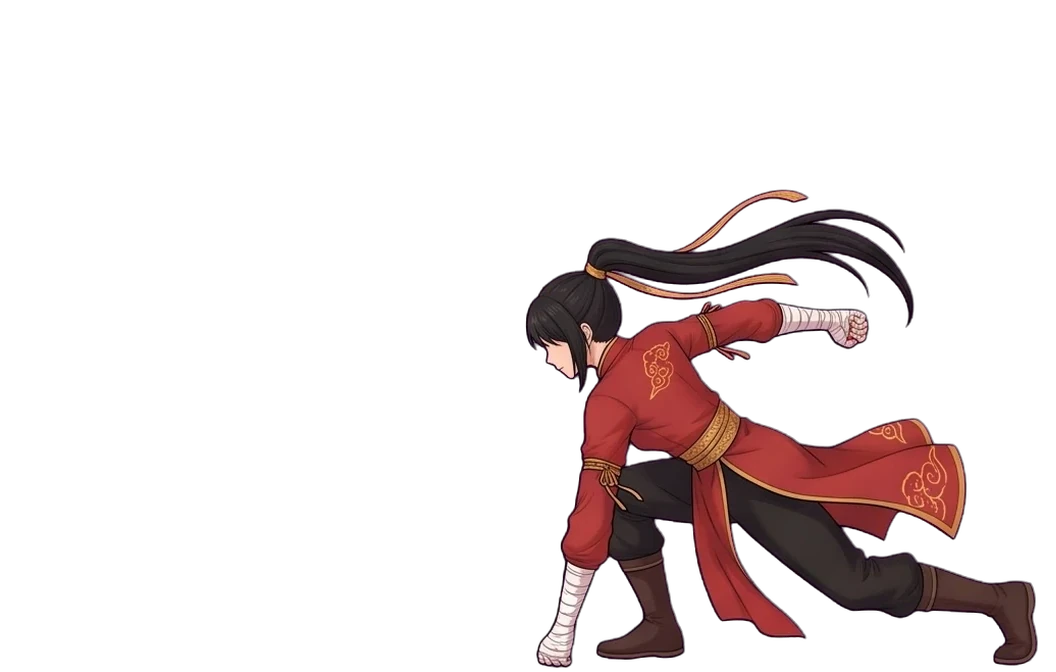
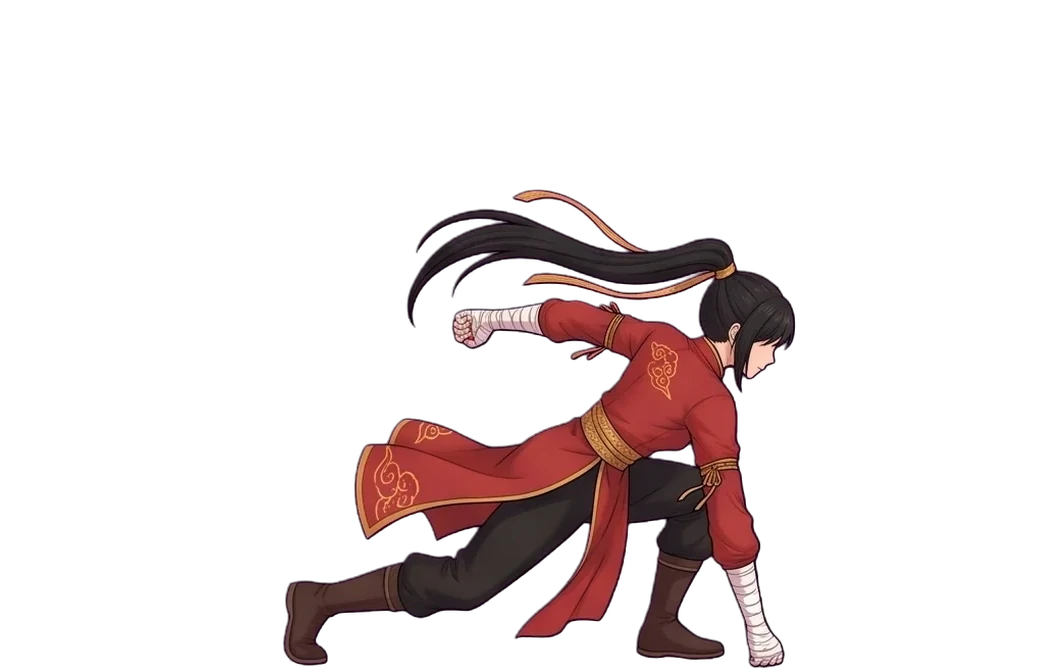
最終版163:重要戰鬥體修蓄力圖朝向修正、歷練戰鬥主角圖依流派與外觀
Claude-Session: https://claude.ai/code/session_01Eudv1bj25nFF4NszqJcvVs

Changed region(s): [[0.25, 0.2812, 1.0, 1.0]]

diff --git a/index.html b/index.html
@@ -16498,7 +16498,7 @@ window.SFX = (() => {
 })();
 
 /* v115 主角背面戰鬥動作圖(重要戰鬥用) */
-window.BP114 = {"F_o1_1": "assets/BP/F_o1_1.webp?v=845711f1", "F_o1_2": "assets/BP/F_o1_2.webp?v=63e0ea8a", "F_o1_3": "assets/BP/F_o1_3.webp?v=4c8fedf0", "F_o1_4": "assets/BP/F_o1_4.webp?v=2d3a9938", "F_o1_5": "assets/BP/F_o1_5.webp?v=39089390", "F_o1_6": "assets/BP/F_o1_6.webp?v=665fdf49", "F_o1_7": "assets/BP/F_o1_7.webp?v=a421ed48", "F_o1_8": "assets/BP/F_o1_8.webp?v=46d02e9f", "F_o1_9": "assets/BP/F_o1_9.webp?v=71e7e51b", "F_o2_1": "assets/BP/F_o2_1.webp?v=05a69ca3", "F_o2_2": "assets/BP/F_o2_2.webp?v=b4ad1367", "F_o2_3": "assets/BP/F_o2_3.webp?v=5b5c3b9e", "F_o2_4": "assets/BP/F_o2_4.webp?v=675eb247", "F_o2_5": "assets/BP/F_o2_5.webp?v=3e6b4256", "F_o2_6": "assets/BP/F_o2_6.webp?v=a83ed8f2", "F_o2_7": "assets/BP/F_o2_7.webp?v=5385903d", "F_o2_8": "assets/BP/F_o2_8.webp?v=813db133", "F_o2_9": "assets/BP/F_o2_9.webp?v=fe97a297", "F_o3_1": "assets/BP/F_o3_1.webp?v=bb0a3107", "F_o3_2": "assets/BP/F_o3_2.webp?v=427aa689", "F_o3_3": "assets/BP/F_o3_3.webp?v=85f7357a", "F_o3_4": "assets/BP/F_o3_4.webp?v=72153950", "F_o3_5": "assets/BP/F_o3_5.webp?v=667aea18", "F_o3_6": "assets/BP/F_o3_6.webp?v=0a9314ea", "F_o3_7": "assets/BP/F_o3_7.webp?v=e8cbb446", "F_o3_8": "assets/BP/F_o3_8.webp?v=b0c55eaa", "F_o3_9": "assets/BP/F_o3_9.webp?v=72363e9e", "F_o4_1": "assets/BP/F_o4_1.webp?v=0a7498b0", "F_o4_2": "assets/BP/F_o4_2.webp?v=0d6c24b1", "F_o4_3": "assets/BP/F_o4_3.webp?v=64f0bf7d", "F_o4_4": "assets/BP/F_o4_4.webp?v=ee9cef42", "F_o4_5": "assets/BP/F_o4_5.webp?v=1df47660", "F_o4_6": "assets/BP/F_o4_6.webp?v=7e19d22c", "F_o4_7": "assets/BP/F_o4_7.webp?v=23243e00", "F_o4_8": "assets/BP/F_o4_8.webp?v=41ff7a57", "F_o4_9": "assets/BP/F_o4_9.webp?v=fdd62696", "F_o5_1": "assets/BP/F_o5_1.webp?v=1acbb409", "F_o5_2": "assets/BP/F_o5_2.webp?v=057ef934", "F_o5_3": "assets/BP/F_o5_3.webp?v=8cf69a7a", "F_o5_4": "assets/BP/F_o5_4.webp?v=83b6597d", "F_o5_5": "assets/BP/F_o5_5.webp?v=2527e5a5", "F_o5_6": "assets/BP/F_o5_6.webp?v=67d0d5f1", "F_o5_7": "assets/BP/F_o5_7.webp?v=4fe41938", "F_o5_8": "assets/BP/F_o5_8.webp?v=a7d74ed8", "F_o5_9": "assets/BP/F_o5_9.webp?v=3954470c", "M_o1_1": "assets/BP/M_o1_1.webp?v=2560faa7", "M_o1_2": "assets/BP/M_o1_2.webp?v=7ad66686", "M_o1_3": "assets/BP/M_o1_3.webp?v=49844ea7", "M_o1_4": "assets/BP/M_o1_4.webp?v=e28f9fdc", "M_o1_5": "assets/BP/M_o1_5.webp?v=b9ccd80b", "M_o1_6": "assets/BP/M_o1_6.webp?v=e9083ee8", "M_o1_7": "assets/BP/M_o1_7.webp?v=58ceecdd", "M_o1_8": "assets/BP/M_o1_8.webp?v=cfe7d049", "M_o1_9": "assets/BP/M_o1_9.webp?v=c5d17e5e", "M_o2_1": "assets/BP/M_o2_1.webp?v=a457cddd", "M_o2_2": "assets/BP/M_o2_2.webp?v=5350cd1f", "M_o2_3": "assets/BP/M_o2_3.webp?v=9923ac77", "M_o2_4": "assets/BP/M_o2_4.webp?v=54d8b4cd", "M_o2_5": "assets/BP/M_o2_5.webp?v=7b33d424", "M_o2_6": "assets/BP/M_o2_6.webp?v=99974fd4", "M_o2_7": "assets/BP/M_o2_7.webp?v=9e35d3f7", "M_o2_8": "assets/BP/M_o2_8.webp?v=010e2f77", "M_o2_9": "assets/BP/M_o2_9.webp?v=9e51febd", "M_o1_magic_1": "assets/BP/M_o1_magic_1.webp?v=9b4973c3", "M_o1_magic_2": "assets/BP/M_o1_magic_2.webp?v=b248a865", "M_o1_magic_3": "assets/BP/M_o1_magic_3.webp?v=a3cf11af", "M_o1_magic_4": "assets/BP/M_o1_magic_4.webp?v=96a407e8", "M_o1_magic_5": "assets/BP/M_o1_magic_5.webp?v=75029708", "M_o1_magic_6": "assets/BP/M_o1_magic_6.webp?v=83065bfb", "M_o1_magic_7": "assets/BP/M_o1_magic_7.webp?v=4a26d8c2", "M_o1_magic_8": "assets/BP/M_o1_magic_8.webp?v=c3b4efe4", "M_o1_magic_9": "assets/BP/M_o1_magic_9.webp?v=d9af5614", "M_o1_body_1": "assets/BP/M_o1_body_1.webp?v=51611a84", "M_o1_body_2": "assets/BP/M_o1_body_2.webp?v=fa383dad", "M_o1_body_3": "assets/BP/M_o1_body_3.webp?v=4a5a0d3d", "M_o1_body_4": "assets/BP/M_o1_body_4.webp?v=1bb56e60", "M_o1_body_5": "assets/BP/M_o1_body_5.webp?v=63e6f99e", "M_o1_body_6": "assets/BP/M_o1_body_6.webp?v=7a0c3fd8", "M_o1_body_7": "assets/BP/M_o1_body_7.webp?v=dbf44c05", "M_o1_body_8": "assets/BP/M_o1_body_8.webp?v=59010254", "M_o1_body_9": "assets/BP/M_o1_body_9.webp?v=07cc84ca", "M_o1_pill_1": "assets/BP/M_o1_pill_1.webp?v=bafb47e1", "M_o1_pill_2": "assets/BP/M_o1_pill_2.webp?v=2c96254e", "M_o1_pill_3": "assets/BP/M_o1_pill_3.webp?v=09680974", "M_o1_pill_4": "assets/BP/M_o1_pill_4.webp?v=f3386cc3", "M_o1_pill_5": "assets/BP/M_o1_pill_5.webp?v=e1a1df88", "M_o1_pill_6": "assets/BP/M_o1_pill_6.webp?v=20603365", "M_o1_pill_7": "assets/BP/M_o1_pill_7.webp?v=f39dd028", "M_o1_pill_8": "assets/BP/M_o1_pill_8.webp?v=2e37c6f2", "M_o1_pill_9": "assets/BP/M_o1_pill_9.webp?v=6862b8e0", "talisman": "assets/BP/talisman.webp?v=b202c5a1", "F_o5_magic_1": "assets/BP/F_o5_magic_1.webp?v=1dc18d3d", "F_o5_magic_2": "assets/BP/F_o5_magic_2.webp?v=0227f54a", "F_o5_magic_3": "assets/BP/F_o5_magic_3.webp?v=2c8b412f", "F_o5_magic_4": "assets/BP/F_o5_magic_4.webp?v=62997c4b", "F_o5_magic_5": "assets/BP/F_o5_magic_5.webp?v=bc868e94", "F_o5_magic_6": "assets/BP/F_o5_magic_6.webp?v=fef3e6b2", "F_o5_magic_7": "assets/BP/F_o5_magic_7.webp?v=e2bdc4b0", "F_o5_magic_8": "assets/BP/F_o5_magic_8.webp?v=372f52eb", "F_o5_magic_9": "assets/BP/F_o5_magic_9.webp?v=b9c981d8", "F_o5_body_1": "assets/BP/F_o5_body_1.webp?v=34d824aa", "F_o5_body_2": "assets/BP/F_o5_body_2.webp?v=9691b664", "F_o5_body_3": "assets/BP/F_o5_body_3.webp?v=568c2b8b", "F_o5_body_4": "assets/BP/F_o5_body_4.webp?v=9695513c", "F_o5_body_5": "assets/BP/F_o5_body_5.webp?v=62f93511", "F_o5_body_6": "assets/BP/F_o5_body_6.webp?v=397c3b2b", "F_o5_body_7": "assets/BP/F_o5_body_7.webp?v=1dbc36b4", "F_o5_body_8": "assets/BP/F_o5_body_8.webp?v=b337b13d", "F_o5_body_9": "assets/BP/F_o5_body_9.webp?v=55a92efd", "F_o5_pill_1": "assets/BP/F_o5_pill_1.webp?v=fb297215", "F_o5_pill_2": "assets/BP/F_o5_pill_2.webp?v=449c1b94", "F_o5_pill_3": "assets/BP/F_o5_pill_3.webp?v=d5d07a07", "F_o5_pill_4": "assets/BP/F_o5_pill_4.webp?v=5a8d8414", "F_o5_pill_5": "assets/BP/F_o5_pill_5.webp?v=8de95340", "F_o5_pill_6": "assets/BP/F_o5_pill_6.webp?v=7fecbbb0", "F_o5_pill_7": "assets/BP/F_o5_pill_7.webp?v=2b15333d", "F_o5_pill_8": "assets/BP/F_o5_pill_8.webp?v=58f02545", "F_o5_pill_9": "assets/BP/F_o5_pill_9.webp?v=78cd2419", "M_o5_magic_1": "assets/BP/M_o5_magic_1.webp?v=1d8d1986", "M_o5_magic_2": "assets/BP/M_o5_magic_2.webp?v=103ebd78", "M_o5_magic_3": "assets/BP/M_o5_magic_3.webp?v=ed6b560e", "M_o5_magic_4": "assets/BP/M_o5_magic_4.webp?v=265d4551", "M_o5_magic_5": "assets/BP/M_o5_magic_5.webp?v=0bc03524", "M_o5_magic_6": "assets/BP/M_o5_magic_6.webp?v=db0285d5", "M_o5_magic_7": "assets/BP/M_o5_magic_7.webp?v=3c325acb", "M_o5_magic_8": "assets/BP/M_o5_magic_8.webp?v=93e857eb", "M_o5_magic_9": "assets/BP/M_o5_magic_9.webp?v=a6302022", "M_o5_body_1": "assets/BP/M_o5_body_1.webp?v=eda74182", "M_o5_body_2": "assets/BP/M_o5_body_2.webp?v=599ba232", "M_o5_body_3": "assets/BP/M_o5_body_3.webp?v=d3a7d388", "M_o5_body_4": "assets/BP/M_o5_body_4.webp?v=b35e56b6", "M_o5_body_5": "assets/BP/M_o5_body_5.webp?v=74f1e209", "M_o5_body_6": "assets/BP/M_o5_body_6.webp?v=c092e695", "M_o5_body_7": "assets/BP/M_o5_body_7.webp?v=d2392edc", "M_o5_body_8": "assets/BP/M_o5_body_8.webp?v=dad73bf5", "M_o5_body_9": "assets/BP/M_o5_body_9.webp?v=bae8528e", "M_o5_pill_1": "assets/BP/M_o5_pill_1.webp?v=839c229a", "M_o5_pill_2": "assets/BP/M_o5_pill_2.webp?v=f4ac8b57", "M_o5_pill_3": "assets/BP/M_o5_pill_3.webp?v=c8b9af3f", "M_o5_pill_4": "assets/BP/M_o5_pill_4.webp?v=b0996191", "M_o5_pill_5": "assets/BP/M_o5_pill_5.webp?v=f1d7a162", "M_o5_pill_6": "assets/BP/M_o5_pill_6.webp?v=028c9bcb", "M_o5_pill_7": "assets/BP/M_o5_pill_7.webp?v=fa2d8913", "M_o5_pill_8": "assets/BP/M_o5_pill_8.webp?v=823c61de", "M_o5_pill_9": "assets/BP/M_o5_pill_9.webp?v=8d1ff84f", "F_o4_magic_1": "assets/BP/F_o4_magic_1.webp?v=47d830b6", "F_o4_magic_2": "assets/BP/F_o4_magic_2.webp?v=3016699d", "F_o4_magic_3": "assets/BP/F_o4_magic_3.webp?v=05e58fcc", "F_o4_magic_4": "assets/BP/F_o4_magic_4.webp?v=4bd59783", "F_o4_magic_5": "assets/BP/F_o4_magic_5.webp?v=caf6e33e", "F_o4_magic_6": "assets/BP/F_o4_magic_6.webp?v=762c5814", "F_o4_magic_7": "assets/BP/F_o4_magic_7.webp?v=983bff3d", "F_o4_magic_8": "assets/BP/F_o4_magic_8.webp?v=1f8d1a40", "F_o4_magic_9": "assets/BP/F_o4_magic_9.webp?v=0e5157a6", "F_o4_body_1": "assets/BP/F_o4_body_1.webp?v=cfabb567", "F_o4_body_2": "assets/BP/F_o4_body_2.webp?v=75e9a3a5", "F_o4_body_3": "assets/BP/F_o4_body_3.webp?v=ebc63f7f", "F_o4_body_4": "assets/BP/F_o4_body_4.webp?v=6bf2e86c", "F_o4_body_5": "assets/BP/F_o4_body_5.webp?v=892cd4a1", "F_o4_body_6": "assets/BP/F_o4_body_6.webp?v=148b1763", "F_o4_body_7": "assets/BP/F_o4_body_7.webp?v=564232a7", "F_o4_body_8": "assets/BP/F_o4_body_8.webp?v=e00847e4", "F_o4_body_9": "assets/BP/F_o4_body_9.webp?v=0ad89cde", "F_o4_pill_1": "assets/BP/F_o4_pill_1.webp?v=a70df610", "F_o4_pill_2": "assets/BP/F_o4_pill_2.webp?v=450d43fa", "F_o4_pill_3": "assets/BP/F_o4_pill_3.webp?v=74c8a812", "F_o4_pill_4": "assets/BP/F_o4_pill_4.webp?v=eee33934", "F_o4_pill_5": "assets/BP/F_o4_pill_5.webp?v=1250a7d0", "F_o4_pill_6": "assets/BP/F_o4_pill_6.webp?v=45cf4da3", "F_o4_pill_7": "assets/BP/F_o4_pill_7.webp?v=7af58a50", "F_o4_pill_8": "assets/BP/F_o4_pill_8.webp?v=8058c548", "F_o4_pill_9": "assets/BP/F_o4_pill_9.webp?v=731b3e1d", "M_o4_magic_1": "assets/BP/M_o4_magic_1.webp?v=202daea7", "M_o4_magic_2": "assets/BP/M_o4_magic_2.webp?v=2e1d8c44", "M_o4_magic_3": "assets/BP/M_o4_magic_3.webp?v=35fa8d0d", "M_o4_magic_4": "assets/BP/M_o4_magic_4.webp?v=c940bcde", "M_o4_magic_5": "assets/BP/M_o4_magic_5.webp?v=1f4b8d28", "M_o4_magic_6": "assets/BP/M_o4_magic_6.webp?v=5e225e0c", "M_o4_magic_7": "assets/BP/M_o4_magic_7.webp?v=82413e4f", "M_o4_magic_8": "assets/BP/M_o4_magic_8.webp?v=b1d046a5", "M_o4_magic_9": "assets/BP/M_o4_magic_9.webp?v=42373643", "M_o4_body_1": "assets/BP/M_o4_body_1.webp?v=d6d360f1", "M_o4_body_2": "assets/BP/M_o4_body_2.webp?v=8955bb7d", "M_o4_body_3": "assets/BP/M_o4_body_3.webp?v=3501d1b6", "M_o4_body_4": "assets/BP/M_o4_body_4.webp?v=969097ca", "M_o4_body_5": "assets/BP/M_o4_body_5.webp?v=5ddec654", "M_o4_body_6": "assets/BP/M_o4_body_6.webp?v=2351a5fc", "M_o4_body_7": "assets/BP/M_o4_body_7.webp?v=b43e5ee4", "M_o4_body_8": "assets/BP/M_o4_body_8.webp?v=bd9f539d", "M_o4_body_9": "assets/BP/M_o4_body_9.webp?v=04fe41b6", "M_o4_pill_1": "assets/BP/M_o4_pill_1.webp?v=55020b94", "M_o4_pill_2": "assets/BP/M_o4_pill_2.webp?v=fd2e627d", "M_o4_pill_3": "assets/BP/M_o4_pill_3.webp?v=53ceea25", "M_o4_pill_4": "assets/BP/M_o4_pill_4.webp?v=2c23521c", "M_o4_pill_5": "assets/BP/M_o4_pill_5.webp?v=0b527c66", "M_o4_pill_6": "assets/BP/M_o4_pill_6.webp?v=79012830", "M_o4_pill_7": "assets/BP/M_o4_pill_7.webp?v=54df3982", "M_o4_pill_8": "assets/BP/M_o4_pill_8.webp?v=d57c73cc", "M_o4_pill_9": "assets/BP/M_o4_pill_9.webp?v=2e1cafff", "F_o3_magic_1": "assets/BP/F_o3_magic_1.webp?v=e9a64f5f", "F_o3_magic_2": "assets/BP/F_o3_magic_2.webp?v=16d10b08", "F_o3_magic_3": "assets/BP/F_o3_magic_3.webp?v=2e587dda", "F_o3_magic_4": "assets/BP/F_o3_magic_4.webp?v=be6838b1", "F_o3_magic_5": "assets/BP/F_o3_magic_5.webp?v=dacc66fb", "F_o3_magic_6": "assets/BP/F_o3_magic_6.webp?v=bfb2b76a", "F_o3_magic_7": "assets/BP/F_o3_magic_7.webp?v=6a5fbd05", "F_o3_magic_8": "assets/BP/F_o3_magic_8.webp?v=f981829c", "F_o3_magic_9": "assets/BP/F_o3_magic_9.webp?v=652b2f75", "F_o3_body_1": "assets/BP/F_o3_body_1.webp?v=8256d26c", "F_o3_body_2": "assets/BP/F_o3_body_2.webp?v=1fd51ead", "F_o3_body_3": "assets/BP/F_o3_body_3.webp?v=dedab817", "F_o3_body_4": "assets/BP/F_o3_body_4.webp?v=7598532f", "F_o3_body_5": "assets/BP/F_o3_body_5.webp?v=5223beba", "F_o3_body_6": "assets/BP/F_o3_body_6.webp?v=d7f3f7e4", "F_o3_body_7": "assets/BP/F_o3_body_7.webp?v=a31a9dcb", "F_o3_body_8": "assets/BP/F_o3_body_8.webp?v=1623c263", "F_o3_body_9": "assets/BP/F_o3_body_9.webp?v=fdbc406f", "F_o3_pill_1": "assets/BP/F_o3_pill_1.webp?v=a7f37f2c", "F_o3_pill_2": "assets/BP/F_o3_pill_2.webp?v=1a1cb015", "F_o3_pill_3": "assets/BP/F_o3_pill_3.webp?v=4b5ce402", "F_o3_pill_4": "assets/BP/F_o3_pill_4.webp?v=e51230f3", "F_o3_pill_5": "assets/BP/F_o3_pill_5.webp?v=f20d8175", "F_o3_pill_6": "assets/BP/F_o3_pill_6.webp?v=fa225a36", "F_o3_pill_7": "assets/BP/F_o3_pill_7.webp?v=c19d3ffa", "F_o3_pill_8": "assets/BP/F_o3_pill_8.webp?v=ab9102e4", "F_o3_pill_9": "assets/BP/F_o3_pill_9.webp?v=e87d8a17", "M_o3_magic_1": "assets/BP/M_o3_magic_1.webp?v=d2cc944c", "M_o3_magic_2": "assets/BP/M_o3_magic_2.webp?v=582713b3", "M_o3_magic_3": "assets/BP/M_o3_magic_3.webp?v=377c6326", "M_o3_magic_4": "assets/BP/M_o3_magic_4.webp?v=d7cb5ba6", "M_o3_magic_5": "assets/BP/M_o3_magic_5.webp?v=af7439d3", "M_o3_magic_6": "assets/BP/M_o3_magic_6.webp?v=4994442c", "M_o3_magic_7": "assets/BP/M_o3_magic_7.webp?v=c9901c96", "M_o3_magic_8": "assets/BP/M_o3_magic_8.webp?v=aae2c32a", "M_o3_magic_9": "assets/BP/M_o3_magic_9.webp?v=3520c790", "M_o3_body_1": "assets/BP/M_o3_body_1.webp?v=00c0ab0a", "M_o3_body_2": "assets/BP/M_o3_body_2.webp?v=d4fb2313", "M_o3_body_3": "assets/BP/M_o3_body_3.webp?v=0089c2ec", "M_o3_body_4": "assets/BP/M_o3_body_4.webp?v=7b83a2a6", "M_o3_body_5": "assets/BP/M_o3_body_5.webp?v=9e9b5ba7", "M_o3_body_6": "assets/BP/M_o3_body_6.webp?v=5e82e1db", "M_o3_body_7": "assets/BP/M_o3_body_7.webp?v=c6d30018", "M_o3_body_8": "assets/BP/M_o3_body_8.webp?v=07320518", "M_o3_body_9": "assets/BP/M_o3_body_9.webp?v=0c717ab6", "M_o3_pill_1": "assets/BP/M_o3_pill_1.webp?v=9ecbbac6", "M_o3_pill_2": "assets/BP/M_o3_pill_2.webp?v=55782e22", "M_o3_pill_3": "assets/BP/M_o3_pill_3.webp?v=866a2f16", "M_o3_pill_4": "assets/BP/M_o3_pill_4.webp?v=f3be9227", "M_o3_pill_5": "assets/BP/M_o3_pill_5.webp?v=fbad086f", "M_o3_pill_6": "assets/BP/M_o3_pill_6.webp?v=af1c5134", "M_o3_pill_7": "assets/BP/M_o3_pill_7.webp?v=841769df", "M_o3_pill_8": "assets/BP/M_o3_pill_8.webp?v=d57c5533", "M_o3_pill_9": "assets/BP/M_o3_pill_9.webp?v=47e784dd", "F_o2_magic_1": "assets/BP/F_o2_magic_1.webp?v=24cd2fa4", "F_o2_magic_2": "assets/BP/F_o2_magic_2.webp?v=f2cd1bd5", "F_o2_magic_3": "assets/BP/F_o2_magic_3.webp?v=6224205b", "F_o2_magic_4": "assets/BP/F_o2_magic_4.webp?v=43360528", "F_o2_magic_5": "assets/BP/F_o2_magic_5.webp?v=3762ae64", "F_o2_magic_6": "assets/BP/F_o2_magic_6.webp?v=7f830eec", "F_o2_magic_7": "assets/BP/F_o2_magic_7.webp?v=a8453654", "F_o2_magic_8": "assets/BP/F_o2_magic_8.webp?v=bc3b7450", "F_o2_magic_9": "assets/BP/F_o2_magic_9.webp?v=bcd08279", "F_o2_body_1": "assets/BP/F_o2_body_1.webp?v=5f404494", "F_o2_body_2": "assets/BP/F_o2_body_2.webp?v=2b33f179", "F_o2_body_3": "assets/BP/F_o2_body_3.webp?v=e267bb7e", "F_o2_body_4": "assets/BP/F_o2_body_4.webp?v=194f1df2", "F_o2_body_5": "assets/BP/F_o2_body_5.webp?v=16b5488b", "F_o2_body_6": "assets/BP/F_o2_body_6.webp?v=57681a8b", "F_o2_body_7": "assets/BP/F_o2_body_7.webp?v=c5d7dc68", "F_o2_body_8": "assets/BP/F_o2_body_8.webp?v=81e8ae4e", "F_o2_body_9": "assets/BP/F_o2_body_9.webp?v=be439696", "F_o2_pill_1": "assets/BP/F_o2_pill_1.webp?v=d188d30b", "F_o2_pill_2": "assets/BP/F_o2_pill_2.webp?v=aba871cb", "F_o2_pill_3": "assets/BP/F_o2_pill_3.webp?v=d0c65f52", "F_o2_pill_4": "assets/BP/F_o2_pill_4.webp?v=d20d3fed", "F_o2_pill_5": "assets/BP/F_o2_pill_5.webp?v=432f8bd7", "F_o2_pill_6": "assets/BP/F_o2_pill_6.webp?v=dc59bf32", "F_o2_pill_7": "assets/BP/F_o2_pill_7.webp?v=b4bfcd4c", "F_o2_pill_8": "assets/BP/F_o2_pill_8.webp?v=bb5c0d3f", "F_o2_pill_9": "assets/BP/F_o2_pill_9.webp?v=89d49626", "M_o2_magic_1": "assets/BP/M_o2_magic_1.webp?v=4a8fd103", "M_o2_magic_2": "assets/BP/M_o2_magic_2.webp?v=d6013535", "M_o2_magic_3": "assets/BP/M_o2_magic_3.webp?v=74a7e696", "M_o2_magic_4": "assets/BP/M_o2_magic_4.webp?v=e2f3ec60", "M_o2_magic_5": "assets/BP/M_o2_magic_5.webp?v=bae868da", "M_o2_magic_6": "assets/BP/M_o2_magic_6.webp?v=7ab92120", "M_o2_magic_7": "assets/BP/M_o2_magic_7.webp?v=78cd64ee", "M_o2_magic_8": "assets/BP/M_o2_magic_8.webp?v=55832c1b", "M_o2_magic_9": "assets/BP/M_o2_magic_9.webp?v=bc44d860", "M_o2_body_1": "assets/BP/M_o2_body_1.webp?v=484100ed", "M_o2_body_2": "assets/BP/M_o2_body_2.webp?v=7dbc0dc8", "M_o2_body_3": "assets/BP/M_o2_body_3.webp?v=711ef4b6", "M_o2_body_4": "assets/BP/M_o2_body_4.webp?v=cddb9ef8", "M_o2_body_5": "assets/BP/M_o2_body_5.webp?v=457de7b6", "M_o2_body_6": "assets/BP/M_o2_body_6.webp?v=f4b4b34c", "M_o2_body_7": "assets/BP/M_o2_body_7.webp?v=cacd31ef", "M_o2_body_8": "assets/BP/M_o2_body_8.webp?v=15455647", "M_o2_body_9": "assets/BP/M_o2_body_9.webp?v=ec410993", "M_o2_pill_1": "assets/BP/M_o2_pill_1.webp?v=9b587cbf", "M_o2_pill_2": "assets/BP/M_o2_pill_2.webp?v=22b69cdd", "M_o2_pill_3": "assets/BP/M_o2_pill_3.webp?v=5e98dcf2", "M_o2_pill_4": "assets/BP/M_o2_pill_4.webp?v=c006b548", "M_o2_pill_5": "assets/BP/M_o2_pill_5.webp?v=3cf8b6cb", "M_o2_pill_6": "assets/BP/M_o2_pill_6.webp?v=08623c24", "M_o2_pill_7": "assets/BP/M_o2_pill_7.webp?v=265186db", "M_o2_pill_8": "assets/BP/M_o2_pill_8.webp?v=fe8d85a1", "M_o2_pill_9": "assets/BP/M_o2_pill_9.webp?v=fe747ce7", "F_o1_magic_1": "assets/BP/F_o1_magic_1.webp?v=4e5f8469", "F_o1_magic_2": "assets/BP/F_o1_magic_2.webp?v=9f7adbe3", "F_o1_magic_3": "assets/BP/F_o1_magic_3.webp?v=0d4b2cfa", "F_o1_magic_4": "assets/BP/F_o1_magic_4.webp?v=921b38bf", "F_o1_magic_5": "assets/BP/F_o1_magic_5.webp?v=bb66a925", "F_o1_magic_6": "assets/BP/F_o1_magic_6.webp?v=0c679aaa", "F_o1_magic_7": "assets/BP/F_o1_magic_7.webp?v=405f2feb", "F_o1_magic_8": "assets/BP/F_o1_magic_8.webp?v=e8c2a360", "F_o1_magic_9": "assets/BP/F_o1_magic_9.webp?v=a5db0544", "F_o1_body_1": "assets/BP/F_o1_body_1.webp?v=6384018e", "F_o1_body_2": "assets/BP/F_o1_body_2.webp?v=782cd1f3", "F_o1_body_3": "assets/BP/F_o1_body_3.webp?v=c7f05cf4", "F_o1_body_4": "assets/BP/F_o1_body_4.webp?v=e5a407c6", "F_o1_body_5": "assets/BP/F_o1_body_5.webp?v=98a64082", "F_o1_body_6": "assets/BP/F_o1_body_6.webp?v=4a6a5eba", "F_o1_body_7": "assets/BP/F_o1_body_7.webp?v=207c46c0", "F_o1_body_8": "assets/BP/F_o1_body_8.webp?v=e3b18361", "F_o1_body_9": "assets/BP/F_o1_body_9.webp?v=32a5489d", "F_o1_pill_1": "assets/BP/F_o1_pill_1.webp?v=a21e1df8", "F_o1_pill_2": "assets/BP/F_o1_pill_2.webp?v=2b47f0c6", "F_o1_pill_3": "assets/BP/F_o1_pill_3.webp?v=9d137eaa", "F_o1_pill_4": "assets/BP/F_o1_pill_4.webp?v=b9398538", "F_o1_pill_5": "assets/BP/F_o1_pill_5.webp?v=dde40ab4", "F_o1_pill_6": "assets/BP/F_o1_pill_6.webp?v=2afb540c", "F_o1_pill_7": "assets/BP/F_o1_pill_7.webp?v=b9398538", "F_o1_pill_8": "assets/BP/F_o1_pill_8.webp?v=584cd597", "F_o1_pill_9": "assets/BP/F_o1_pill_9.webp?v=6e638b49", "M_mc_1": "assets/BP/M_mc_1.webp?v=03194b27", "M_mc_2": "assets/BP/M_mc_2.webp?v=1593c4a8", "M_mc_3": "assets/BP/M_mc_3.webp?v=78d98d8f", "M_mc_4": "assets/BP/M_mc_4.webp?v=11a84b65", "M_mc_5": "assets/BP/M_mc_5.webp?v=c62eccf8", "M_mc_6": "assets/BP/M_mc_6.webp?v=41750a69", "M_mc_7": "assets/BP/M_mc_7.webp?v=6e57e8e6", "M_mc_8": "assets/BP/M_mc_8.webp?v=5394f08c", "M_mc_9": "assets/BP/M_mc_9.webp?v=9cf6a34d", "M_o3_1": "assets/BP/M_o3_1.webp?v=911e0148", "M_o3_2": "assets/BP/M_o3_2.webp?v=d49ff3b7", "M_o3_3": "assets/BP/M_o3_3.webp?v=70fd962f", "M_o3_4": "assets/BP/M_o3_4.webp?v=10baf48d", "M_o3_5": "assets/BP/M_o3_5.webp?v=64e0e325", "M_o3_6": "assets/BP/M_o3_6.webp?v=c2438bd5", "M_o3_7": "assets/BP/M_o3_7.webp?v=a6ce3d23", "M_o3_8": "assets/BP/M_o3_8.webp?v=c9752f83", "M_o3_9": "assets/BP/M_o3_9.webp?v=a1af0ada", "M_o4_1": "assets/BP/M_o4_1.webp?v=43ac3c38", "M_o4_2": "assets/BP/M_o4_2.webp?v=f512e93b", "M_o4_3": "assets/BP/M_o4_3.webp?v=651f67c3", "M_o4_4": "assets/BP/M_o4_4.webp?v=5e0b1883", "M_o4_5": "assets/BP/M_o4_5.webp?v=9e77acc4", "M_o4_6": "assets/BP/M_o4_6.webp?v=6ed9a474", "M_o4_7": "assets/BP/M_o4_7.webp?v=5427d33a", "M_o4_8": "assets/BP/M_o4_8.webp?v=c0be0eb9", "M_o4_9": "assets/BP/M_o4_9.webp?v=22d5c0e4", "M_o5_1": "assets/BP/M_o5_1.webp?v=2e970d7d", "M_o5_2": "assets/BP/M_o5_2.webp?v=ded257bf", "M_o5_3": "assets/BP/M_o5_3.webp?v=4af86b3b", "M_o5_4": "assets/BP/M_o5_4.webp?v=10635597", "M_o5_5": "assets/BP/M_o5_5.webp?v=b3438832", "M_o5_6": "assets/BP/M_o5_6.webp?v=132388bd", "M_o5_7": "assets/BP/M_o5_7.webp?v=24d3b448", "M_o5_8": "assets/BP/M_o5_8.webp?v=68e0ee4d", "M_o5_9": "assets/BP/M_o5_9.webp?v=ceae38ce"};
+window.BP114 = {"F_o1_1": "assets/BP/F_o1_1.webp?v=845711f1", "F_o1_2": "assets/BP/F_o1_2.webp?v=63e0ea8a", "F_o1_3": "assets/BP/F_o1_3.webp?v=4c8fedf0", "F_o1_4": "assets/BP/F_o1_4.webp?v=2d3a9938", "F_o1_5": "assets/BP/F_o1_5.webp?v=39089390", "F_o1_6": "assets/BP/F_o1_6.webp?v=665fdf49", "F_o1_7": "assets/BP/F_o1_7.webp?v=a421ed48", "F_o1_8": "assets/BP/F_o1_8.webp?v=46d02e9f", "F_o1_9": "assets/BP/F_o1_9.webp?v=71e7e51b", "F_o2_1": "assets/BP/F_o2_1.webp?v=05a69ca3", "F_o2_2": "assets/BP/F_o2_2.webp?v=b4ad1367", "F_o2_3": "assets/BP/F_o2_3.webp?v=5b5c3b9e", "F_o2_4": "assets/BP/F_o2_4.webp?v=675eb247", "F_o2_5": "assets/BP/F_o2_5.webp?v=3e6b4256", "F_o2_6": "assets/BP/F_o2_6.webp?v=a83ed8f2", "F_o2_7": "assets/BP/F_o2_7.webp?v=5385903d", "F_o2_8": "assets/BP/F_o2_8.webp?v=813db133", "F_o2_9": "assets/BP/F_o2_9.webp?v=fe97a297", "F_o3_1": "assets/BP/F_o3_1.webp?v=bb0a3107", "F_o3_2": "assets/BP/F_o3_2.webp?v=427aa689", "F_o3_3": "assets/BP/F_o3_3.webp?v=85f7357a", "F_o3_4": "assets/BP/F_o3_4.webp?v=72153950", "F_o3_5": "assets/BP/F_o3_5.webp?v=667aea18", "F_o3_6": "assets/BP/F_o3_6.webp?v=0a9314ea", "F_o3_7": "assets/BP/F_o3_7.webp?v=e8cbb446", "F_o3_8": "assets/BP/F_o3_8.webp?v=b0c55eaa", "F_o3_9": "assets/BP/F_o3_9.webp?v=72363e9e", "F_o4_1": "assets/BP/F_o4_1.webp?v=0a7498b0", "F_o4_2": "assets/BP/F_o4_2.webp?v=0d6c24b1", "F_o4_3": "assets/BP/F_o4_3.webp?v=64f0bf7d", "F_o4_4": "assets/BP/F_o4_4.webp?v=ee9cef42", "F_o4_5": "assets/BP/F_o4_5.webp?v=1df47660", "F_o4_6": "assets/BP/F_o4_6.webp?v=7e19d22c", "F_o4_7": "assets/BP/F_o4_7.webp?v=23243e00", "F_o4_8": "assets/BP/F_o4_8.webp?v=41ff7a57", "F_o4_9": "assets/BP/F_o4_9.webp?v=fdd62696", "F_o5_1": "assets/BP/F_o5_1.webp?v=1acbb409", "F_o5_2": "assets/BP/F_o5_2.webp?v=057ef934", "F_o5_3": "assets/BP/F_o5_3.webp?v=8cf69a7a", "F_o5_4": "assets/BP/F_o5_4.webp?v=83b6597d", "F_o5_5": "assets/BP/F_o5_5.webp?v=2527e5a5", "F_o5_6": "assets/BP/F_o5_6.webp?v=67d0d5f1", "F_o5_7": "assets/BP/F_o5_7.webp?v=4fe41938", "F_o5_8": "assets/BP/F_o5_8.webp?v=a7d74ed8", "F_o5_9": "assets/BP/F_o5_9.webp?v=3954470c", "M_o1_1": "assets/BP/M_o1_1.webp?v=2560faa7", "M_o1_2": "assets/BP/M_o1_2.webp?v=7ad66686", "M_o1_3": "assets/BP/M_o1_3.webp?v=49844ea7", "M_o1_4": "assets/BP/M_o1_4.webp?v=e28f9fdc", "M_o1_5": "assets/BP/M_o1_5.webp?v=b9ccd80b", "M_o1_6": "assets/BP/M_o1_6.webp?v=e9083ee8", "M_o1_7": "assets/BP/M_o1_7.webp?v=58ceecdd", "M_o1_8": "assets/BP/M_o1_8.webp?v=cfe7d049", "M_o1_9": "assets/BP/M_o1_9.webp?v=c5d17e5e", "M_o2_1": "assets/BP/M_o2_1.webp?v=a457cddd", "M_o2_2": "assets/BP/M_o2_2.webp?v=5350cd1f", "M_o2_3": "assets/BP/M_o2_3.webp?v=9923ac77", "M_o2_4": "assets/BP/M_o2_4.webp?v=54d8b4cd", "M_o2_5": "assets/BP/M_o2_5.webp?v=7b33d424", "M_o2_6": "assets/BP/M_o2_6.webp?v=99974fd4", "M_o2_7": "assets/BP/M_o2_7.webp?v=9e35d3f7", "M_o2_8": "assets/BP/M_o2_8.webp?v=010e2f77", "M_o2_9": "assets/BP/M_o2_9.webp?v=9e51febd", "M_o1_magic_1": "assets/BP/M_o1_magic_1.webp?v=9b4973c3", "M_o1_magic_2": "assets/BP/M_o1_magic_2.webp?v=b248a865", "M_o1_magic_3": "assets/BP/M_o1_magic_3.webp?v=a3cf11af", "M_o1_magic_4": "assets/BP/M_o1_magic_4.webp?v=96a407e8", "M_o1_magic_5": "assets/BP/M_o1_magic_5.webp?v=75029708", "M_o1_magic_6": "assets/BP/M_o1_magic_6.webp?v=83065bfb", "M_o1_magic_7": "assets/BP/M_o1_magic_7.webp?v=4a26d8c2", "M_o1_magic_8": "assets/BP/M_o1_magic_8.webp?v=c3b4efe4", "M_o1_magic_9": "assets/BP/M_o1_magic_9.webp?v=d9af5614", "M_o1_body_1": "assets/BP/M_o1_body_1.webp?v=51611a84", "M_o1_body_2": "assets/BP/M_o1_body_2.webp?v=fa383dad", "M_o1_body_3": "assets/BP/M_o1_body_3.webp?v=4a5a0d3d", "M_o1_body_4": "assets/BP/M_o1_body_4.webp?v=1bb56e60", "M_o1_body_5": "assets/BP/M_o1_body_5.webp?v=63e6f99e", "M_o1_body_6": "assets/BP/M_o1_body_6.webp?v=7a0c3fd8", "M_o1_body_7": "assets/BP/M_o1_body_7.webp?v=dbf44c05", "M_o1_body_8": "assets/BP/M_o1_body_8.webp?v=59010254", "M_o1_body_9": "assets/BP/M_o1_body_9.webp?v=07cc84ca", "M_o1_pill_1": "assets/BP/M_o1_pill_1.webp?v=bafb47e1", "M_o1_pill_2": "assets/BP/M_o1_pill_2.webp?v=2c96254e", "M_o1_pill_3": "assets/BP/M_o1_pill_3.webp?v=09680974", "M_o1_pill_4": "assets/BP/M_o1_pill_4.webp?v=f3386cc3", "M_o1_pill_5": "assets/BP/M_o1_pill_5.webp?v=e1a1df88", "M_o1_pill_6": "assets/BP/M_o1_pill_6.webp?v=20603365", "M_o1_pill_7": "assets/BP/M_o1_pill_7.webp?v=f39dd028", "M_o1_pill_8": "assets/BP/M_o1_pill_8.webp?v=2e37c6f2", "M_o1_pill_9": "assets/BP/M_o1_pill_9.webp?v=6862b8e0", "talisman": "assets/BP/talisman.webp?v=b202c5a1", "F_o5_magic_1": "assets/BP/F_o5_magic_1.webp?v=1dc18d3d", "F_o5_magic_2": "assets/BP/F_o5_magic_2.webp?v=0227f54a", "F_o5_magic_3": "assets/BP/F_o5_magic_3.webp?v=2c8b412f", "F_o5_magic_4": "assets/BP/F_o5_magic_4.webp?v=62997c4b", "F_o5_magic_5": "assets/BP/F_o5_magic_5.webp?v=bc868e94", "F_o5_magic_6": "assets/BP/F_o5_magic_6.webp?v=fef3e6b2", "F_o5_magic_7": "assets/BP/F_o5_magic_7.webp?v=e2bdc4b0", "F_o5_magic_8": "assets/BP/F_o5_magic_8.webp?v=372f52eb", "F_o5_magic_9": "assets/BP/F_o5_magic_9.webp?v=b9c981d8", "F_o5_body_1": "assets/BP/F_o5_body_1.webp?v=34d824aa", "F_o5_body_2": "assets/BP/F_o5_body_2.webp?v=9691b664", "F_o5_body_3": "assets/BP/F_o5_body_3.webp?v=568c2b8b", "F_o5_body_4": "assets/BP/F_o5_body_4.webp?v=9695513c", "F_o5_body_5": "assets/BP/F_o5_body_5.webp?v=62f93511", "F_o5_body_6": "assets/BP/F_o5_body_6.webp?v=397c3b2b", "F_o5_body_7": "assets/BP/F_o5_body_7.webp?v=1dbc36b4", "F_o5_body_8": "assets/BP/F_o5_body_8.webp?v=b337b13d", "F_o5_body_9": "assets/BP/F_o5_body_9.webp?v=55a92efd", "F_o5_pill_1": "assets/BP/F_o5_pill_1.webp?v=fb297215", "F_o5_pill_2": "assets/BP/F_o5_pill_2.webp?v=449c1b94", "F_o5_pill_3": "assets/BP/F_o5_pill_3.webp?v=d5d07a07", "F_o5_pill_4": "assets/BP/F_o5_pill_4.webp?v=5a8d8414", "F_o5_pill_5": "assets/BP/F_o5_pill_5.webp?v=8de95340", "F_o5_pill_6": "assets/BP/F_o5_pill_6.webp?v=7fecbbb0", "F_o5_pill_7": "assets/BP/F_o5_pill_7.webp?v=2b15333d", "F_o5_pill_8": "assets/BP/F_o5_pill_8.webp?v=58f02545", "F_o5_pill_9": "assets/BP/F_o5_pill_9.webp?v=78cd2419", "M_o5_magic_1": "assets/BP/M_o5_magic_1.webp?v=1d8d1986", "M_o5_magic_2": "assets/BP/M_o5_magic_2.webp?v=103ebd78", "M_o5_magic_3": "assets/BP/M_o5_magic_3.webp?v=ed6b560e", "M_o5_magic_4": "assets/BP/M_o5_magic_4.webp?v=265d4551", "M_o5_magic_5": "assets/BP/M_o5_magic_5.webp?v=0bc03524", "M_o5_magic_6": "assets/BP/M_o5_magic_6.webp?v=db0285d5", "M_o5_magic_7": "assets/BP/M_o5_magic_7.webp?v=3c325acb", "M_o5_magic_8": "assets/BP/M_o5_magic_8.webp?v=93e857eb", "M_o5_magic_9": "assets/BP/M_o5_magic_9.webp?v=a6302022", "M_o5_body_1": "assets/BP/M_o5_body_1.webp?v=eda74182", "M_o5_body_2": "assets/BP/M_o5_body_2.webp?v=599ba232", "M_o5_body_3": "assets/BP/M_o5_body_3.webp?v=d3a7d388", "M_o5_body_4": "assets/BP/M_o5_body_4.webp?v=b35e56b6", "M_o5_body_5": "assets/BP/M_o5_body_5.webp?v=74f1e209", "M_o5_body_6": "assets/BP/M_o5_body_6.webp?v=c092e695", "M_o5_body_7": "assets/BP/M_o5_body_7.webp?v=c38becdc", "M_o5_body_8": "assets/BP/M_o5_body_8.webp?v=dad73bf5", "M_o5_body_9": "assets/BP/M_o5_body_9.webp?v=bae8528e", "M_o5_pill_1": "assets/BP/M_o5_pill_1.webp?v=839c229a", "M_o5_pill_2": "assets/BP/M_o5_pill_2.webp?v=f4ac8b57", "M_o5_pill_3": "assets/BP/M_o5_pill_3.webp?v=c8b9af3f", "M_o5_pill_4": "assets/BP/M_o5_pill_4.webp?v=b0996191", "M_o5_pill_5": "assets/BP/M_o5_pill_5.webp?v=f1d7a162", "M_o5_pill_6": "assets/BP/M_o5_pill_6.webp?v=028c9bcb", "M_o5_pill_7": "assets/BP/M_o5_pill_7.webp?v=fa2d8913", "M_o5_pill_8": "assets/BP/M_o5_pill_8.webp?v=823c61de", "M_o5_pill_9": "assets/BP/M_o5_pill_9.webp?v=8d1ff84f", "F_o4_magic_1": "assets/BP/F_o4_magic_1.webp?v=47d830b6", "F_o4_magic_2": "assets/BP/F_o4_magic_2.webp?v=3016699d", "F_o4_magic_3": "assets/BP/F_o4_magic_3.webp?v=05e58fcc", "F_o4_magic_4": "assets/BP/F_o4_magic_4.webp?v=4bd59783", "F_o4_magic_5": "assets/BP/F_o4_magic_5.webp?v=caf6e33e", "F_o4_magic_6": "assets/BP/F_o4_magic_6.webp?v=762c5814", "F_o4_magic_7": "assets/BP/F_o4_magic_7.webp?v=983bff3d", "F_o4_magic_8": "assets/BP/F_o4_magic_8.webp?v=1f8d1a40", "F_o4_magic_9": "assets/BP/F_o4_magic_9.webp?v=0e5157a6", "F_o4_body_1": "assets/BP/F_o4_body_1.webp?v=cfabb567", "F_o4_body_2": "assets/BP/F_o4_body_2.webp?v=75e9a3a5", "F_o4_body_3": "assets/BP/F_o4_body_3.webp?v=ebc63f7f", "F_o4_body_4": "assets/BP/F_o4_body_4.webp?v=6bf2e86c", "F_o4_body_5": "assets/BP/F_o4_body_5.webp?v=892cd4a1", "F_o4_body_6": "assets/BP/F_o4_body_6.webp?v=148b1763", "F_o4_body_7": "assets/BP/F_o4_body_7.webp?v=7c184d28", "F_o4_body_8": "assets/BP/F_o4_body_8.webp?v=e00847e4", "F_o4_body_9": "assets/BP/F_o4_body_9.webp?v=0ad89cde", "F_o4_pill_1": "assets/BP/F_o4_pill_1.webp?v=a70df610", "F_o4_pill_2": "assets/BP/F_o4_pill_2.webp?v=450d43fa", "F_o4_pill_3": "assets/BP/F_o4_pill_3.webp?v=74c8a812", "F_o4_pill_4": "assets/BP/F_o4_pill_4.webp?v=eee33934", "F_o4_pill_5": "assets/BP/F_o4_pill_5.webp?v=1250a7d0", "F_o4_pill_6": "assets/BP/F_o4_pill_6.webp?v=45cf4da3", "F_o4_pill_7": "assets/BP/F_o4_pill_7.webp?v=7af58a50", "F_o4_pill_8": "assets/BP/F_o4_pill_8.webp?v=8058c548", "F_o4_pill_9": "assets/BP/F_o4_pill_9.webp?v=731b3e1d", "M_o4_magic_1": "assets/BP/M_o4_magic_1.webp?v=202daea7", "M_o4_magic_2": "assets/BP/M_o4_magic_2.webp?v=2e1d8c44", "M_o4_magic_3": "assets/BP/M_o4_magic_3.webp?v=35fa8d0d", "M_o4_magic_4": "assets/BP/M_o4_magic_4.webp?v=c940bcde", "M_o4_magic_5": "assets/BP/M_o4_magic_5.webp?v=1f4b8d28", "M_o4_magic_6": "assets/BP/M_o4_magic_6.webp?v=5e225e0c", "M_o4_magic_7": "assets/BP/M_o4_magic_7.webp?v=82413e4f", "M_o4_magic_8": "assets/BP/M_o4_magic_8.webp?v=b1d046a5", "M_o4_magic_9": "assets/BP/M_o4_magic_9.webp?v=42373643", "M_o4_body_1": "assets/BP/M_o4_body_1.webp?v=d6d360f1", "M_o4_body_2": "assets/BP/M_o4_body_2.webp?v=8955bb7d", "M_o4_body_3": "assets/BP/M_o4_body_3.webp?v=3501d1b6", "M_o4_body_4": "assets/BP/M_o4_body_4.webp?v=969097ca", "M_o4_body_5": "assets/BP/M_o4_body_5.webp?v=5ddec654", "M_o4_body_6": "assets/BP/M_o4_body_6.webp?v=2351a5fc", "M_o4_body_7": "assets/BP/M_o4_body_7.webp?v=62dc58cd", "M_o4_body_8": "assets/BP/M_o4_body_8.webp?v=bd9f539d", "M_o4_body_9": "assets/BP/M_o4_body_9.webp?v=04fe41b6", "M_o4_pill_1": "assets/BP/M_o4_pill_1.webp?v=55020b94", "M_o4_pill_2": "assets/BP/M_o4_pill_2.webp?v=fd2e627d", "M_o4_pill_3": "assets/BP/M_o4_pill_3.webp?v=53ceea25", "M_o4_pill_4": "assets/BP/M_o4_pill_4.webp?v=2c23521c", "M_o4_pill_5": "assets/BP/M_o4_pill_5.webp?v=0b527c66", "M_o4_pill_6": "assets/BP/M_o4_pill_6.webp?v=79012830", "M_o4_pill_7": "assets/BP/M_o4_pill_7.webp?v=54df3982", "M_o4_pill_8": "assets/BP/M_o4_pill_8.webp?v=d57c73cc", "M_o4_pill_9": "assets/BP/M_o4_pill_9.webp?v=2e1cafff", "F_o3_magic_1": "assets/BP/F_o3_magic_1.webp?v=e9a64f5f", "F_o3_magic_2": "assets/BP/F_o3_magic_2.webp?v=16d10b08", "F_o3_magic_3": "assets/BP/F_o3_magic_3.webp?v=2e587dda", "F_o3_magic_4": "assets/BP/F_o3_magic_4.webp?v=be6838b1", "F_o3_magic_5": "assets/BP/F_o3_magic_5.webp?v=dacc66fb", "F_o3_magic_6": "assets/BP/F_o3_magic_6.webp?v=bfb2b76a", "F_o3_magic_7": "assets/BP/F_o3_magic_7.webp?v=6a5fbd05", "F_o3_magic_8": "assets/BP/F_o3_magic_8.webp?v=f981829c", "F_o3_magic_9": "assets/BP/F_o3_magic_9.webp?v=652b2f75", "F_o3_body_1": "assets/BP/F_o3_body_1.webp?v=8256d26c", "F_o3_body_2": "assets/BP/F_o3_body_2.webp?v=1fd51ead", "F_o3_body_3": "assets/BP/F_o3_body_3.webp?v=dedab817", "F_o3_body_4": "assets/BP/F_o3_body_4.webp?v=7598532f", "F_o3_body_5": "assets/BP/F_o3_body_5.webp?v=5223beba", "F_o3_body_6": "assets/BP/F_o3_body_6.webp?v=d7f3f7e4", "F_o3_body_7": "assets/BP/F_o3_body_7.webp?v=a31a9dcb", "F_o3_body_8": "assets/BP/F_o3_body_8.webp?v=1623c263", "F_o3_body_9": "assets/BP/F_o3_body_9.webp?v=fdbc406f", "F_o3_pill_1": "assets/BP/F_o3_pill_1.webp?v=a7f37f2c", "F_o3_pill_2": "assets/BP/F_o3_pill_2.webp?v=1a1cb015", "F_o3_pill_3": "assets/BP/F_o3_pill_3.webp?v=4b5ce402", "F_o3_pill_4": "assets/BP/F_o3_pill_4.webp?v=e51230f3", "F_o3_pill_5": "assets/BP/F_o3_pill_5.webp?v=f20d8175", "F_o3_pill_6": "assets/BP/F_o3_pill_6.webp?v=fa225a36", "F_o3_pill_7": "assets/BP/F_o3_pill_7.webp?v=c19d3ffa", "F_o3_pill_8": "assets/BP/F_o3_pill_8.webp?v=ab9102e4", "F_o3_pill_9": "assets/BP/F_o3_pill_9.webp?v=e87d8a17", "M_o3_magic_1": "assets/BP/M_o3_magic_1.webp?v=d2cc944c", "M_o3_magic_2": "assets/BP/M_o3_magic_2.webp?v=582713b3", "M_o3_magic_3": "assets/BP/M_o3_magic_3.webp?v=377c6326", "M_o3_magic_4": "assets/BP/M_o3_magic_4.webp?v=d7cb5ba6", "M_o3_magic_5": "assets/BP/M_o3_magic_5.webp?v=af7439d3", "M_o3_magic_6": "assets/BP/M_o3_magic_6.webp?v=4994442c", "M_o3_magic_7": "assets/BP/M_o3_magic_7.webp?v=c9901c96", "M_o3_magic_8": "assets/BP/M_o3_magic_8.webp?v=aae2c32a", "M_o3_magic_9": "assets/BP/M_o3_magic_9.webp?v=3520c790", "M_o3_body_1": "assets/BP/M_o3_body_1.webp?v=00c0ab0a", "M_o3_body_2": "assets/BP/M_o3_body_2.webp?v=d4fb2313", "M_o3_body_3": "assets/BP/M_o3_body_3.webp?v=0089c2ec", "M_o3_body_4": "assets/BP/M_o3_body_4.webp?v=7b83a2a6", "M_o3_body_5": "assets/BP/M_o3_body_5.webp?v=9e9b5ba7", "M_o3_body_6": "assets/BP/M_o3_body_6.webp?v=5e82e1db", "M_o3_body_7": "assets/BP/M_o3_body_7.webp?v=c6d30018", "M_o3_body_8": "assets/BP/M_o3_body_8.webp?v=07320518", "M_o3_body_9": "assets/BP/M_o3_body_9.webp?v=0c717ab6", "M_o3_pill_1": "assets/BP/M_o3_pill_1.webp?v=9ecbbac6", "M_o3_pill_2": "assets/BP/M_o3_pill_2.webp?v=55782e22", "M_o3_pill_3": "assets/BP/M_o3_pill_3.webp?v=866a2f16", "M_o3_pill_4": "assets/BP/M_o3_pill_4.webp?v=f3be9227", "M_o3_pill_5": "assets/BP/M_o3_pill_5.webp?v=fbad086f", "M_o3_pill_6": "assets/BP/M_o3_pill_6.webp?v=af1c5134", "M_o3_pill_7": "assets/BP/M_o3_pill_7.webp?v=841769df", "M_o3_pill_8": "assets/BP/M_o3_pill_8.webp?v=d57c5533", "M_o3_pill_9": "assets/BP/M_o3_pill_9.webp?v=47e784dd", "F_o2_magic_1": "assets/BP/F_o2_magic_1.webp?v=24cd2fa4", "F_o2_magic_2": "assets/BP/F_o2_magic_2.webp?v=f2cd1bd5", "F_o2_magic_3": "assets/BP/F_o2_magic_3.webp?v=6224205b", "F_o2_magic_4": "assets/BP/F_o2_magic_4.webp?v=43360528", "F_o2_magic_5": "assets/BP/F_o2_magic_5.webp?v=3762ae64", "F_o2_magic_6": "assets/BP/F_o2_magic_6.webp?v=7f830eec", "F_o2_magic_7": "assets/BP/F_o2_magic_7.webp?v=a8453654", "F_o2_magic_8": "assets/BP/F_o2_magic_8.webp?v=bc3b7450", "F_o2_magic_9": "assets/BP/F_o2_magic_9.webp?v=bcd08279", "F_o2_body_1": "assets/BP/F_o2_body_1.webp?v=5f404494", "F_o2_body_2": "assets/BP/F_o2_body_2.webp?v=2b33f179", "F_o2_body_3": "assets/BP/F_o2_body_3.webp?v=e267bb7e", "F_o2_body_4": "assets/BP/F_o2_body_4.webp?v=194f1df2", "F_o2_body_5": "assets/BP/F_o2_body_5.webp?v=16b5488b", "F_o2_body_6": "assets/BP/F_o2_body_6.webp?v=57681a8b", "F_o2_body_7": "assets/BP/F_o2_body_7.webp?v=c5d7dc68", "F_o2_body_8": "assets/BP/F_o2_body_8.webp?v=81e8ae4e", "F_o2_body_9": "assets/BP/F_o2_body_9.webp?v=be439696", "F_o2_pill_1": "assets/BP/F_o2_pill_1.webp?v=d188d30b", "F_o2_pill_2": "assets/BP/F_o2_pill_2.webp?v=aba871cb", "F_o2_pill_3": "assets/BP/F_o2_pill_3.webp?v=d0c65f52", "F_o2_pill_4": "assets/BP/F_o2_pill_4.webp?v=d20d3fed", "F_o2_pill_5": "assets/BP/F_o2_pill_5.webp?v=432f8bd7", "F_o2_pill_6": "assets/BP/F_o2_pill_6.webp?v=dc59bf32", "F_o2_pill_7": "assets/BP/F_o2_pill_7.webp?v=b4bfcd4c", "F_o2_pill_8": "assets/BP/F_o2_pill_8.webp?v=bb5c0d3f", "F_o2_pill_9": "assets/BP/F_o2_pill_9.webp?v=89d49626", "M_o2_magic_1": "assets/BP/M_o2_magic_1.webp?v=4a8fd103", "M_o2_magic_2": "assets/BP/M_o2_magic_2.webp?v=d6013535", "M_o2_magic_3": "assets/BP/M_o2_magic_3.webp?v=74a7e696", "M_o2_magic_4": "assets/BP/M_o2_magic_4.webp?v=e2f3ec60", "M_o2_magic_5": "assets/BP/M_o2_magic_5.webp?v=bae868da", "M_o2_magic_6": "assets/BP/M_o2_magic_6.webp?v=7ab92120", "M_o2_magic_7": "assets/BP/M_o2_magic_7.webp?v=78cd64ee", "M_o2_magic_8": "assets/BP/M_o2_magic_8.webp?v=55832c1b", "M_o2_magic_9": "assets/BP/M_o2_magic_9.webp?v=bc44d860", "M_o2_body_1": "assets/BP/M_o2_body_1.webp?v=484100ed", "M_o2_body_2": "assets/BP/M_o2_body_2.webp?v=7dbc0dc8", "M_o2_body_3": "assets/BP/M_o2_body_3.webp?v=711ef4b6", "M_o2_body_4": "assets/BP/M_o2_body_4.webp?v=cddb9ef8", "M_o2_body_5": "assets/BP/M_o2_body_5.webp?v=457de7b6", "M_o2_body_6": "assets/BP/M_o2_body_6.webp?v=f4b4b34c", "M_o2_body_7": "assets/BP/M_o2_body_7.webp?v=cacd31ef", "M_o2_body_8": "assets/BP/M_o2_body_8.webp?v=15455647", "M_o2_body_9": "assets/BP/M_o2_body_9.webp?v=ec410993", "M_o2_pill_1": "assets/BP/M_o2_pill_1.webp?v=9b587cbf", "M_o2_pill_2": "assets/BP/M_o2_pill_2.webp?v=22b69cdd", "M_o2_pill_3": "assets/BP/M_o2_pill_3.webp?v=5e98dcf2", "M_o2_pill_4": "assets/BP/M_o2_pill_4.webp?v=c006b548", "M_o2_pill_5": "assets/BP/M_o2_pill_5.webp?v=3cf8b6cb", "M_o2_pill_6": "assets/BP/M_o2_pill_6.webp?v=08623c24", "M_o2_pill_7": "assets/BP/M_o2_pill_7.webp?v=265186db", "M_o2_pill_8": "assets/BP/M_o2_pill_8.webp?v=fe8d85a1", "M_o2_pill_9": "assets/BP/M_o2_pill_9.webp?v=fe747ce7", "F_o1_magic_1": "assets/BP/F_o1_magic_1.webp?v=4e5f8469", "F_o1_magic_2": "assets/BP/F_o1_magic_2.webp?v=9f7adbe3", "F_o1_magic_3": "assets/BP/F_o1_magic_3.webp?v=0d4b2cfa", "F_o1_magic_4": "assets/BP/F_o1_magic_4.webp?v=921b38bf", "F_o1_magic_5": "assets/BP/F_o1_magic_5.webp?v=bb66a925", "F_o1_magic_6": "assets/BP/F_o1_magic_6.webp?v=0c679aaa", "F_o1_magic_7": "assets/BP/F_o1_magic_7.webp?v=405f2feb", "F_o1_magic_8": "assets/BP/F_o1_magic_8.webp?v=e8c2a360", "F_o1_magic_9": "assets/BP/F_o1_magic_9.webp?v=a5db0544", "F_o1_body_1": "assets/BP/F_o1_body_1.webp?v=6384018e", "F_o1_body_2": "assets/BP/F_o1_body_2.webp?v=782cd1f3", "F_o1_body_3": "assets/BP/F_o1_body_3.webp?v=c7f05cf4", "F_o1_body_4": "assets/BP/F_o1_body_4.webp?v=e5a407c6", "F_o1_body_5": "assets/BP/F_o1_body_5.webp?v=98a64082", "F_o1_body_6": "assets/BP/F_o1_body_6.webp?v=4a6a5eba", "F_o1_body_7": "assets/BP/F_o1_body_7.webp?v=207c46c0", "F_o1_body_8": "assets/BP/F_o1_body_8.webp?v=e3b18361", "F_o1_body_9": "assets/BP/F_o1_body_9.webp?v=32a5489d", "F_o1_pill_1": "assets/BP/F_o1_pill_1.webp?v=a21e1df8", "F_o1_pill_2": "assets/BP/F_o1_pill_2.webp?v=2b47f0c6", "F_o1_pill_3": "assets/BP/F_o1_pill_3.webp?v=9d137eaa", "F_o1_pill_4": "assets/BP/F_o1_pill_4.webp?v=b9398538", "F_o1_pill_5": "assets/BP/F_o1_pill_5.webp?v=dde40ab4", "F_o1_pill_6": "assets/BP/F_o1_pill_6.webp?v=2afb540c", "F_o1_pill_7": "assets/BP/F_o1_pill_7.webp?v=b9398538", "F_o1_pill_8": "assets/BP/F_o1_pill_8.webp?v=584cd597", "F_o1_pill_9": "assets/BP/F_o1_pill_9.webp?v=6e638b49", "M_mc_1": "assets/BP/M_mc_1.webp?v=03194b27", "M_mc_2": "assets/BP/M_mc_2.webp?v=1593c4a8", "M_mc_3": "assets/BP/M_mc_3.webp?v=78d98d8f", "M_mc_4": "assets/BP/M_mc_4.webp?v=11a84b65", "M_mc_5": "assets/BP/M_mc_5.webp?v=c62eccf8", "M_mc_6": "assets/BP/M_mc_6.webp?v=41750a69", "M_mc_7": "assets/BP/M_mc_7.webp?v=6e57e8e6", "M_mc_8": "assets/BP/M_mc_8.webp?v=5394f08c", "M_mc_9": "assets/BP/M_mc_9.webp?v=9cf6a34d", "M_o3_1": "assets/BP/M_o3_1.webp?v=911e0148", "M_o3_2": "assets/BP/M_o3_2.webp?v=d49ff3b7", "M_o3_3": "assets/BP/M_o3_3.webp?v=70fd962f", "M_o3_4": "assets/BP/M_o3_4.webp?v=10baf48d", "M_o3_5": "assets/BP/M_o3_5.webp?v=64e0e325", "M_o3_6": "assets/BP/M_o3_6.webp?v=c2438bd5", "M_o3_7": "assets/BP/M_o3_7.webp?v=a6ce3d23", "M_o3_8": "assets/BP/M_o3_8.webp?v=c9752f83", "M_o3_9": "assets/BP/M_o3_9.webp?v=a1af0ada", "M_o4_1": "assets/BP/M_o4_1.webp?v=43ac3c38", "M_o4_2": "assets/BP/M_o4_2.webp?v=f512e93b", "M_o4_3": "assets/BP/M_o4_3.webp?v=651f67c3", "M_o4_4": "assets/BP/M_o4_4.webp?v=5e0b1883", "M_o4_5": "assets/BP/M_o4_5.webp?v=9e77acc4", "M_o4_6": "assets/BP/M_o4_6.webp?v=6ed9a474", "M_o4_7": "assets/BP/M_o4_7.webp?v=5427d33a", "M_o4_8": "assets/BP/M_o4_8.webp?v=c0be0eb9", "M_o4_9": "assets/BP/M_o4_9.webp?v=22d5c0e4", "M_o5_1": "assets/BP/M_o5_1.webp?v=2e970d7d", "M_o5_2": "assets/BP/M_o5_2.webp?v=ded257bf", "M_o5_3": "assets/BP/M_o5_3.webp?v=4af86b3b", "M_o5_4": "assets/BP/M_o5_4.webp?v=10635597", "M_o5_5": "assets/BP/M_o5_5.webp?v=b3438832", "M_o5_6": "assets/BP/M_o5_6.webp?v=132388bd", "M_o5_7": "assets/BP/M_o5_7.webp?v=24d3b448", "M_o5_8": "assets/BP/M_o5_8.webp?v=68e0ee4d", "M_o5_9": "assets/BP/M_o5_9.webp?v=ceae38ce"};
 window.C1IMG = {"kid_M_1": "assets/C1/kid_M_1.webp?v=d8b61bad", "kid_M_2": "assets/C1/kid_M_2.webp?v=223ee593", "kid_M_3": "assets/C1/kid_M_3.webp?v=5881eb61", "kid_M_4": "assets/C1/kid_M_4.webp?v=061ca303", "kid_M_5": "assets/C1/kid_M_5.webp?v=87fac5f2", "kid_M_6": "assets/C1/kid_M_6.webp?v=58e7c5d9", "kid_F_1": "assets/C1/kid_F_1.webp?v=0c6439db", "kid_F_2": "assets/C1/kid_F_2.webp?v=42142772", "kid_F_3": "assets/C1/kid_F_3.webp?v=24b658a1", "kid_F_4": "assets/C1/kid_F_4.webp?v=c366863a", "kid_F_5": "assets/C1/kid_F_5.webp?v=db0ce5f8", "kid_F_6": "assets/C1/kid_F_6.webp?v=a9f5b729", "kidcp_M_n": "assets/C1/kidcp_M_n.webp?v=521f3561", "kidcp_M_h": "assets/C1/kidcp_M_h.webp?v=cd1e3df5", "kidcp_F_n": "assets/C1/kidcp_F_n.webp?v=3bea50cb", "kidcp_F_h": "assets/C1/kidcp_F_h.webp?v=f98fb38f", "mocp_n": "assets/C1/mocp_n.webp?v=78c3ae52", "mouc": "assets/C1/mouc.webp?v=7543f376"};
 
 /* v122 本命絕學過場特寫 */
@@ -18382,6 +18382,31 @@ window.IC138 = {"camp": "assets/IC138/camp.webp?v=23979c68", "flag": "assets/IC1
   X.act('dl160.go', () => { swPost('warm!'); showToast('開始下載離線資源,可以繼續玩。'); setTimeout(dlRow, 3000); });
   { const o = X.open; X.open = function (id) { const r = o.apply(this, arguments); if (id === 'mn') setTimeout(dlRow, 50); return r; }; }
   setInterval(() => { if (X.isOpen && X.isOpen('mn')) dlRow(); }, 5000);
+})();
+
+/* ===== v163 一般歷練戰鬥的主角圖:依外觀與流派,改用重要戰鬥的背影動作圖(BP114)
+   待機=1、出手=2、受擊=6;沒有該流派圖的外觀退回該外觀劍修圖,再退回原本的側身圖。 ===== */
+(() => {
+  const ORIG = { S0: GEN3.S0, S1: GEN3.S1, S2: GEN3.S2 };
+  const N = { S0: 1, S1: 2, S2: 6 };
+  let sig = '';
+  function sch() { try { const m = (state.realmIdx || 0) >= 1 && window.SCH19 ? SCH19.SCH().main : ''; return m && m !== 'sword' ? m : ''; } catch (e) { return ''; } }
+  function key(n) {
+    const B = window.BP114 || {}, g = state.gender === 'f' ? 'F_' : 'M_', lk = state.look || 'o1', s = sch();
+    return (s && B[g + lk + '_' + s + '_' + n]) || B[g + lk + '_' + n] || B[g + 'o1_' + n] || '';
+  }
+  function apply() {
+    if (!state.gender) return;
+    const s = [state.gender, state.look, sch()].join('|'); if (s === sig) return; sig = s;
+    Object.keys(N).forEach(k => { const src = key(N[k]); if (src) { GEN3[k] = src; const i = new Image(); i.src = src; } else if (ORIG[k]) GEN3[k] = ORIG[k]; });
+    const im = document.getElementById('bs-ps'); if (im && !(typeof currentBattle !== 'undefined' && currentBattle && im.getAttribute('src') !== ORIG.S0 && im.getAttribute('src') !== GEN3.S0)) im.src = GEN3.S0;
+  }
+  /* 033 換性別時會把 GEN3 重設回側身圖 → 重新套用 */
+  setInterval(() => { try { if (GEN3.S0 !== key(1)) sig = ''; apply(); } catch (e) { } }, 800);
+  const st = document.createElement('style');
+  st.textContent = '.bs-pl .bs-ps,.bs-pl .bs-ps.f14{height:132px}';
+  document.head.appendChild(st);
+  setTimeout(apply, 600);
 })();
 
 /* v91 網頁 App:只在 http(s) 網址註冊離線支援 */
